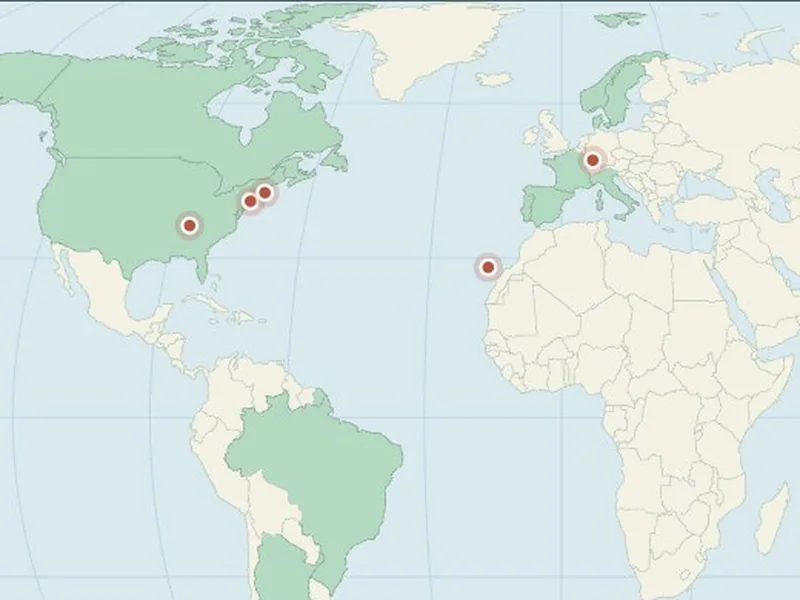
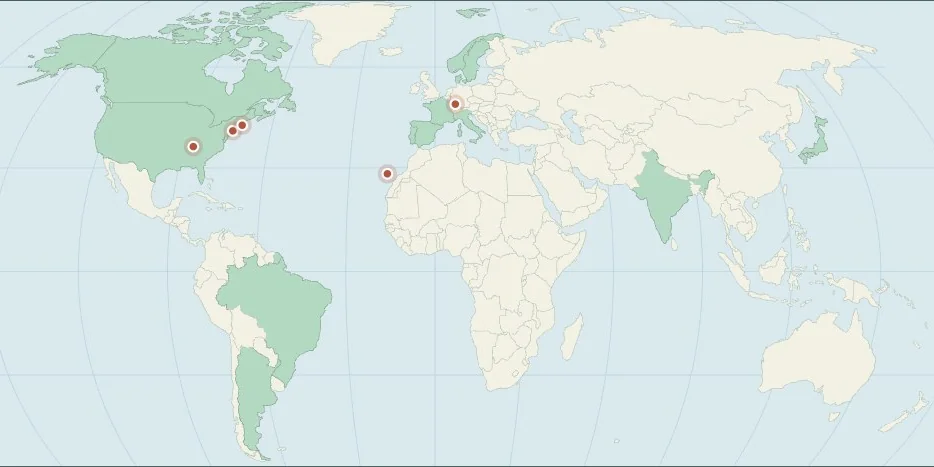
Home: the places as journals (her pick), every picture 2:1 landscape; Try switch now Extras only
Journals without numbers (her ask): cloth-bound journal in each place's colour, picture as a
plate, name on a cream label; 4 / 2 / 1 to a row, seven = 4 + 3 centred. Pictures share one
landscape shape (2:1): new crops of Willow Creek, Johto-Kanto and the Travels map; the
Library's wall fills the same plate. Dropped options and the site-preview pictures removed.
Extras (Off / On) stays on a small temporary Try switch. check_page updated (161 pass).

diff --git a/site/index.html b/site/index.html
@@ -218,110 +218,46 @@ svg.i{width:1em;height:1em;flex:none;fill:none;stroke:currentColor;stroke-width:
   .about-site .cr{display:block}
 }
 
-/* ================================================================ TRY SWITCH (temporary, 22 Nov: options while she chooses; remove this whole block,
-   the switch code in home.js and the unused img/home/ files once she has picked). Her ask: the page is a bit bland and the pictures don’t sit together. */
-.num{display:none}
+/* ================================================================ The places as journals (her pick, 22 Nov: she found the page a bit bland and the pictures odd together)
+   Each place is a cloth-bound journal in its own colour (spine, stitching, a page edge), its picture a plate with album corners, its name on a cream label
+   like the banner’s; no numbers on the journals (her ask). Every picture is the same landscape shape, 2:1 (her pick): the maps cropped to it (img/home/), the Library’s wall fills it.
+   Four to a row on a laptop, two below 1200px, one on phones; more places wrap, centred (seven = 4 + 3). */
 .card{--pcx:var(--pc)}
 :root[data-mode="dark"] .card{--pcx:color-mix(in srgb,var(--pc) 45%,#F3EBDA)}
-/* ---- Pictures */
 .pic.fill{background:var(--mat)}
 .pic.fill>img.bg{object-fit:cover}
-.pic.shot>img.bg{object-position:0 0}
-#page:not(.pics-now) .pic::after{content:"";position:absolute;inset:0;z-index:1;box-shadow:inset 0 0 0 1px rgba(0,0,0,.16);pointer-events:none}
-.wash{position:absolute;inset:0;z-index:1;background:var(--pc);mix-blend-mode:color;opacity:.36;transition:opacity .45s;pointer-events:none}
-.pics-tinted .pic img{filter:saturate(.85) contrast(.97)}
-.pics-tinted .snap{background:color-mix(in srgb,var(--pc) 12%,var(--mat))}
-.pics-tinted .snap:hover .wash{opacity:.12}
-
-/* ---- Extras: chapter numbers with a bar in the place’s colour, Open in the place’s colour, a drop capital on the Introduction */
-.extras-on .num{display:flex;align-items:center;gap:10px;font:italic 400 24px/1 var(--display);color:var(--pcx);margin:0 0 8px}
-.extras-on .num::after{content:"";width:34px;height:2px;background:currentColor;border-radius:2px}
-.extras-on.layout-now .card>.snap,.extras-on.layout-feature .card:not(:first-child)>.snap{order:-1}
-.extras-on .go{color:var(--pcx);border-bottom-color:color-mix(in srgb,var(--pcx) 40%,transparent)}
-.extras-on .intro p::first-letter{float:left;font:400 3.3em/.82 var(--display);margin:.06em .1em 0 0;color:var(--acc);font-style:normal}
-
-/* ---- Layout: Journals (each place a cloth-bound journal in its colour, the picture a tipped-in plate, the name on a cream label) */
-#page.layout-journals .cards{gap:48px 32px}
-#page.layout-journals .cards>.card{flex:0 0 calc((100% - 96px) / 4)}
-.layout-journals .card{--cl:var(--pc);position:relative;padding:20px 20px 24px 38px;color:#F3EBDA;text-align:center;border-radius:3px 9px 9px 3px;
+.pic::after{content:"";position:absolute;inset:0;z-index:1;box-shadow:inset 0 0 0 1px rgba(0,0,0,.16);pointer-events:none}
+#page.v2 .cards{gap:48px 32px}
+#page.v2 .cards>.card{flex:0 0 calc((100% - 96px) / 4)}
+.v2 .card{--cl:var(--pc);position:relative;padding:22px 16px 24px 34px;color:#F3EBDA;text-align:center;border-radius:3px 9px 9px 3px;
   background:repeating-linear-gradient(0deg,rgba(255,255,255,.03) 0 1px,transparent 1px 3px),repeating-linear-gradient(90deg,rgba(0,0,0,.05) 0 1px,transparent 1px 3px),
     linear-gradient(160deg,color-mix(in srgb,var(--cl) 82%,#fff),var(--cl) 55%,color-mix(in srgb,var(--cl) 72%,#000));
   box-shadow:5px 5px 0 -2px #EFE6D3,5px 5px 0 -1px rgba(0,0,0,.18),0 24px 34px -20px rgba(0,0,0,.65)}
-:root[data-mode="dark"] .layout-journals .card{--cl:color-mix(in srgb,var(--pc) 82%,#000);box-shadow:5px 5px 0 -2px #5A5045,5px 5px 0 -1px rgba(0,0,0,.4),0 24px 34px -20px rgba(0,0,0,.9)}
-.layout-journals .card::before{content:"";position:absolute;left:0;top:0;bottom:0;width:20px;border-radius:3px 0 0 3px;background:linear-gradient(90deg,rgba(0,0,0,.34),rgba(255,255,255,.1) 62%,rgba(0,0,0,.28))}
-.layout-journals .card::after{content:"";position:absolute;inset:8px 8px 8px 27px;border:1.5px dashed rgba(243,235,218,.32);border-radius:5px;pointer-events:none}
-.layout-journals .num{display:block;font:italic 400 20px/1 var(--display);color:var(--gold);margin:0 0 12px}
-.layout-journals .snap{padding:8px;background:#FBF6EC;margin:0;box-shadow:0 8px 16px -9px rgba(0,0,0,.7);z-index:1}
-:root[data-mode="dark"] .layout-journals .snap{background:#0D0A07}
-.layout-journals .snap .pic{inset:8px}
-.layout-journals .c{width:16px;height:16px}
-.layout-journals .c.tl,.layout-journals .c.tr{top:3px}.layout-journals .c.bl,.layout-journals .c.br{bottom:3px}.layout-journals .c.tl,.layout-journals .c.bl{left:3px}.layout-journals .c.tr,.layout-journals .c.br{right:3px}
-.layout-journals .txt h3{display:inline-block;position:relative;z-index:3;margin:-18px 0 14px;font-size:28px;line-height:1.05;padding:.2em .5em .22em;border-radius:3px;background:var(--label);color:var(--label-ink);
+:root[data-mode="dark"] .v2 .card{--cl:color-mix(in srgb,var(--pc) 82%,#000);box-shadow:5px 5px 0 -2px #5A5045,5px 5px 0 -1px rgba(0,0,0,.4),0 24px 34px -20px rgba(0,0,0,.9)}
+.v2 .card::before{content:"";position:absolute;left:0;top:0;bottom:0;width:20px;border-radius:3px 0 0 3px;background:linear-gradient(90deg,rgba(0,0,0,.34),rgba(255,255,255,.1) 62%,rgba(0,0,0,.28))}   /* the spine */
+.v2 .card::after{content:"";position:absolute;inset:8px 7px 8px 26px;border:1.5px dashed rgba(243,235,218,.32);border-radius:5px;pointer-events:none}   /* stitching, like the banner */
+.v2 .snap{aspect-ratio:2/1;padding:8px;background:#FBF6EC;margin:0;box-shadow:0 8px 16px -9px rgba(0,0,0,.7);z-index:1}
+:root[data-mode="dark"] .v2 .snap{background:#0D0A07}
+.v2 .snap .pic{inset:8px}
+.v2 .c{width:16px;height:16px}
+.v2 .c.tl,.v2 .c.tr{top:3px}.v2 .c.bl,.v2 .c.br{bottom:3px}.v2 .c.tl,.v2 .c.bl{left:3px}.v2 .c.tr,.v2 .c.br{right:3px}
+.v2 .card .txt h3{display:inline-block;position:relative;z-index:3;margin:-12px 0 14px;font-size:28px;line-height:1.05;padding:.2em .5em .22em;border-radius:3px;background:var(--label);color:var(--label-ink);
   outline:1px solid rgba(41,34,27,.3);outline-offset:-5px;box-shadow:0 8px 16px -9px rgba(0,0,0,.7)}
-:root[data-mode="dark"] .layout-journals .txt h3{outline-color:rgba(243,235,218,.22)}
-.v2.layout-journals .card p,.v2.layout-journals .card p.ph{color:rgba(243,235,218,.9);font-size:14.5px;text-align:left}
-.layout-journals .card .ph-tag{color:rgba(243,235,218,.85);border-color:rgba(243,235,218,.6)}
-.v2.layout-journals .go{align-self:center;color:#F3EBDA;border-bottom-color:rgba(243,235,218,.45);position:relative;z-index:3}
-.layout-journals .go:focus-visible,.layout-journals .snap:focus-visible{outline-color:#F3EBDA}
+:root[data-mode="dark"] .v2 .card .txt h3{outline-color:rgba(243,235,218,.22)}
+.v2 .card p,.v2 .card p.ph{color:rgba(243,235,218,.9);font-size:14.5px;text-align:left}
+.v2 .card .ph-tag{color:rgba(243,235,218,.85);border-color:rgba(243,235,218,.6)}
+.v2 .card .go{align-self:center;color:#F3EBDA;border-bottom-color:rgba(243,235,218,.45);position:relative;z-index:3}
+.v2 .card .go:focus-visible,.v2 .card .snap:focus-visible{outline-color:#F3EBDA}
+@media (max-width:1199px){ #page.v2 .cards>.card{flex-basis:calc((100% - 32px) / 2)} }
+@media (max-width:760px){ #page.v2 .cards>.card{flex-basis:100%;max-width:420px} .v2 .card .txt h3{font-size:30px} }
 
-/* ---- Layout: Feature (the first place large, picture beside its words; the rest in a row below) */
-@media (min-width:761px){
-  #page.layout-feature .cards>.card{flex:0 0 calc((100% - 80px) / 3)}
-  #page.layout-feature .cards>.card:first-child{flex-basis:100%;display:grid;grid-template-columns:minmax(0,1.45fr) minmax(0,1fr);grid-template-rows:1fr auto auto 1fr;column-gap:clamp(32px,4vw,56px);align-items:center;margin-bottom:8px}
-  .layout-feature .card:first-child>.snap{grid-column:1;grid-row:1/5;margin:0}
-  .layout-feature .card:first-child>.num{grid-column:2;grid-row:1;align-self:end}
-  .layout-feature .card:first-child>.txt{grid-column:2;grid-row:2}
-  .layout-feature .card:first-child>.go{grid-column:2;grid-row:3;align-self:start;justify-self:start}
-  .v2.layout-feature .card:first-child h3{font-size:clamp(46px,4.4vw,62px);margin-bottom:16px}
-  .layout-feature .card:first-child p{font-size:17.5px;line-height:1.62}
-}
-@media (min-width:761px) and (max-width:1000px){ #page.layout-feature .cards>.card:not(:first-child){flex-basis:calc((100% - 40px) / 2)} }
-
-/* ---- Layout: Side by side (each place a row, picture and words side by side, alternating left and right, a diamond between) */
-@media (min-width:761px){
-  #page.layout-rows .cards{flex-direction:column;gap:clamp(64px,7vw,96px)}
-  #page.layout-rows .cards>.card{flex:none;width:100%;display:grid;grid-template-columns:minmax(0,1.15fr) minmax(0,1fr);grid-template-rows:1fr auto auto 1fr;column-gap:clamp(32px,4.5vw,64px);align-items:center;position:relative}
-  .layout-rows .card>.snap{grid-column:1;grid-row:1/5;margin:0}
-  .layout-rows .card>.num{grid-column:2;grid-row:1;align-self:end}
-  .layout-rows .card>.txt{grid-column:2;grid-row:2}
-  .layout-rows .card>.go{grid-column:2;grid-row:3;align-self:start;justify-self:start}
-  #page.layout-rows .cards>.card:nth-child(even){grid-template-columns:minmax(0,1fr) minmax(0,1.15fr)}
-  .layout-rows .card:nth-child(even)>.snap{grid-column:2}
-  .layout-rows .card:nth-child(even)>.num,.layout-rows .card:nth-child(even)>.txt,.layout-rows .card:nth-child(even)>.go{grid-column:1}
-  .v2.layout-rows .card h3{font-size:clamp(42px,3.8vw,54px);margin-bottom:14px}
-  .layout-rows .card p{font-size:17px;max-width:460px}
-  .layout-rows .card+.card::before{content:"";position:absolute;left:50%;top:calc(clamp(64px,7vw,96px) / -2);width:7px;height:7px;background:var(--acc);transform:translate(-50%,-50%) rotate(45deg)}
-  .layout-rows .card+.card::after{content:"";position:absolute;left:50%;top:calc(clamp(64px,7vw,96px) / -2);width:220px;height:1px;transform:translate(-50%,-50%);
-    background:linear-gradient(90deg,transparent,color-mix(in srgb,var(--acc) 60%,transparent) 40%,transparent 46%,transparent 54%,color-mix(in srgb,var(--acc) 60%,transparent) 60%,transparent)}
-}
-
-/* ---- Layout: Index (a book’s contents page: numbered chapter lines, a small plate, a dotted leader to Open …) */
-#page.layout-index .cards{display:block;border-top:1px solid var(--line)}
-.layout-index .card{display:grid;grid-template-columns:56px 210px minmax(0,1fr) auto;grid-template-rows:auto 1fr;column-gap:30px;padding:28px 0;border-bottom:1px solid var(--line);align-items:start}
-.layout-index .num{display:block;grid-column:1;grid-row:1/3;font:italic 400 46px/1 var(--display);color:var(--pcx);text-align:right;margin:0}
-.layout-index .num::after{display:none}
-.layout-index .snap{grid-column:2;grid-row:1/3;margin:0;padding:7px}
-.layout-index .snap .pic{inset:7px}
-.layout-index .c{width:15px;height:15px}
-.layout-index .c.tl,.layout-index .c.tr{top:3px}.layout-index .c.bl,.layout-index .c.br{bottom:3px}.layout-index .c.tl,.layout-index .c.bl{left:3px}.layout-index .c.tr,.layout-index .c.br{right:3px}
-.layout-index .txt{grid-column:3;grid-row:1/3}
-.v2.layout-index .card h3{display:flex;align-items:baseline;gap:14px;font-size:40px;margin:0 0 10px}
-.layout-index .card h3::after{content:"";flex:1;min-width:30px;border-bottom:2px dotted color-mix(in srgb,var(--mute) 65%,transparent);transform:translateY(-7px)}
-.layout-index .card p{max-width:640px;margin:0}
-.layout-index .go{grid-column:4;grid-row:1;margin-top:16px;white-space:nowrap;justify-self:end}
-@media (max-width:760px){
-  .layout-index .card{grid-template-columns:36px minmax(0,1fr);grid-template-rows:none;column-gap:14px;padding:24px 0}
-  .layout-index .num{grid-row:1;font-size:34px}
-  .layout-index .txt{display:contents}
-  .v2.layout-index .card h3{grid-column:2;grid-row:1;font-size:34px;margin:0}
-  .layout-index .snap{grid-column:2;grid-row:2;margin:14px 0 14px}
-  .layout-index .card p{grid-column:2;grid-row:3;margin-bottom:12px}
-  .layout-index .go{grid-column:2;grid-row:4;margin:0;justify-self:start}
-}
-
-/* growth and smaller screens for Journals */
-@media (max-width:1199px){ #page.layout-journals .cards>.card{flex-basis:calc((100% - 32px) / 2)} }
-@media (max-width:760px){ #page.layout-journals .cards>.card{flex-basis:100%;max-width:420px} .layout-journals .txt h3{font-size:30px} }
+/* ================================================================ TRY SWITCH (temporary, 22 Nov: only Extras is left for her to compare; remove this block
+   and the switch code in home.js once she has picked). Extras On: a drop capital on the Introduction, a short bar in each place’s colour above its name
+   (on the cream label), and “Open …” in the place’s colour (on a small cream tab, so the colour shows against the cloth). */
+.extras-on .intro p::first-letter{float:left;font:400 3.3em/.82 var(--display);margin:.06em .1em 0 0;color:var(--acc);font-style:normal}
+.extras-on .card .txt h3::before{content:"";display:block;width:40px;height:3px;border-radius:2px;background:var(--pcx);margin:.12em auto .16em}
+.v2.extras-on .card .go{background:var(--label);color:var(--pcx);border:0;padding:7px 14px;border-radius:99px;box-shadow:0 6px 12px -8px rgba(0,0,0,.6)}
+.v2.extras-on .card .go:hover{text-decoration:underline;text-underline-offset:3px}
 
 /* the switch itself */
 .trybox{position:fixed;z-index:70;right:calc(12px + env(safe-area-inset-right,0px));bottom:calc(12px + env(safe-area-inset-bottom,0px));max-width:min(600px,calc(100vw - 24px));

diff --git a/site/home.js b/site/home.js
@@ -7,13 +7,13 @@
   // really aren't there (the page opened as a file, or the phone copy as a Claude artifact: claude.ai, claudeusercontent.com or a sandboxed frame) does a link say so instead (round 5 review).
   var NO_APPS=!/^https?:$/.test(location.protocol) || /(^|\.)(claude\.ai|claudeusercontent\.com)$/.test(location.hostname);
   var PLACES=[
-    {name:"Sim World", url:"/sim-world/", frame:"img/home/frame-sim-world.webp", preview:"img/home/preview-sim-world.webp", title:"My Sim World", pc:"#4E3182", pic:{img:"img/maps/sims-willow-creek.webp", map:true, alt:"Map of Willow Creek"},
+    {name:"Sim World", url:"/sim-world/", frame:"img/home/frame-sim-world.webp", title:"My Sim World", pc:"#4E3182", pic:{img:"img/maps/sims-willow-creek.webp", map:true, alt:"Map of Willow Creek"},
      about:"Every world in the game, rebuilt one lot at a time. Wander the neighbourhoods, look around the homes and venues, and meet the households who live in them."},
-    {name:"Library", url:"/library/", preview:"img/home/preview-library.webp", title:"My Library", pc:"#6E4524", pic:{wall:true, alt:"Covers of books from my shelves"},
+    {name:"Library", url:"/library/", title:"My Library", pc:"#6E4524", pic:{wall:true, alt:"Covers of books from my shelves"},
      about:"Every book on the shelves at home, and everything you read."},
-    {name:"Pokédex", url:"/pokedex/", frame:"img/home/frame-pokedex.webp", preview:"img/home/preview-pokedex.webp", title:"My Pokédex", pc:"#7E2530", pic:{img:"img/maps/region-johto-kanto.webp", map:true, alt:"Map of Johto and Kanto"},
+    {name:"Pokédex", url:"/pokedex/", frame:"img/home/frame-pokedex.webp", title:"My Pokédex", pc:"#7E2530", pic:{img:"img/maps/region-johto-kanto.webp", map:true, alt:"Map of Johto and Kanto"},
      about:null},
-    {name:"Travels", url:"/travels/", frame:"img/home/frame-travels.webp", preview:"img/home/preview-travels.webp", title:"My Travels", pc:"#1D7A69", pic:{img:"img/maps/travels-map.webp", map:true, alt:"Map of the places on my trips"},
+    {name:"Travels", url:"/travels/", frame:"img/home/frame-travels.webp", title:"My Travels", pc:"#1D7A69", pic:{img:"img/maps/travels-map.webp", map:true, alt:"Map of the places on my trips"},
      about:null}   // added 21 Nov (her yes); the picture is Travels' own map in its chosen Old Atlas look
   ];
   // Only for "More places": stand-ins to show how it grows. Not real places.
@@ -29,26 +29,19 @@
   function ico(n){ return '<svg class="i" viewBox="0 0 24 24" aria-hidden="true">'+ICON[n]+'</svg>'; }
   function esc(s){ return String(s).replace(/[&<>"]/g,function(c){return {"&":"&amp;","<":"&lt;",">":"&gt;",'"':"&quot;"}[c];}); }
   var WALL=''; for(var n=0;n<72;n++) WALL+='<img src="img/wall/'+String((n*7)%40).padStart(2,'0')+'.webp" alt="" loading="lazy" decoding="async">';
-  // TRY SWITCH (temporary, 22 Nov, while she chooses; remove with the .trybox CSS once she has picked):
-  // pictures: now | frame (every picture cropped to the same 4:3 shape) | previews (each app's own home page) | tinted (same frame + a wash of the place's colour)
-  // layout: now | journals | feature | rows | index; extras: off | on (place colours, chapter numbers, a drop capital)
-  var TRY={
-    pics:[['now','As now'],['frame','Same frame'],['previews','Site previews'],['tinted','Tinted']],
-    layout:[['now','As now'],['journals','Journals'],['feature','Feature'],['rows','Side by side'],['index','Index']],
-    extras:[['off','Off'],['on','On']]
-  };
-  var TRYNAMES={pics:'Pictures',layout:'Layout',extras:'Extras'};
-  var tryState={pics:'now',layout:'now',extras:'off'}, tryHidden=false;
-  try { var saved=JSON.parse(localStorage.getItem('jj-home-try')||'{}'); Object.keys(TRY).forEach(function(k){ if(TRY[k].some(function(o){return o[0]===saved[k];})) tryState[k]=saved[k]; }); tryHidden=!!saved.hidden; } catch(e){}
-  function saveTry(){ try { localStorage.setItem('jj-home-try', JSON.stringify({pics:tryState.pics,layout:tryState.layout,extras:tryState.extras,hidden:tryHidden})); } catch(e){} }
-  var ROMAN=['I','II','III','IV','V','VI','VII','VIII','IX','X'];
+  // TRY SWITCH (temporary, 22 Nov: only Extras is left to choose; remove with the .trybox CSS once she has picked)
+  // extras: off | on (a drop capital on the Introduction, a bar in each place's colour above its name, "Open …" in the place's colour)
+  var TRY={extras:[['off','Off'],['on','On']]};
+  var TRYNAMES={extras:'Extras'};
+  var tryState={extras:'off'}, tryHidden=false;
+  try { var saved=JSON.parse(localStorage.getItem('jj-home-try')||'{}'); if(saved.extras==='on') tryState.extras='on'; tryHidden=!!saved.hidden; } catch(e){}
+  function saveTry(){ try { localStorage.setItem('jj-home-try', JSON.stringify({extras:tryState.extras,hidden:tryHidden})); } catch(e){} }
+  // every picture the same landscape plate, 2:1 (her pick, 22 Nov): maps cropped to that shape (img/home/frame-*), the Library's wall fills it
   function pic(p){
     if(p.demo||!p.pic) return '<span class="pic blank" style="--pc:'+p.pc+'"></span>';   // no picture yet (a new site from tools/new_site.py): the striped stand-in
-    var q=p.pic, mode=tryState.pics, wash=mode==='tinted'?'<span class="wash"></span>':'';
-    if(mode==='previews' && p.preview) return '<span class="pic fill shot"><img class="bg" src="'+p.preview+'" alt="The home page of '+esc(p.title)+'" loading="lazy" decoding="async"></span>';
-    if(q.wall) return '<span class="pic" role="img" aria-label="'+esc(q.alt)+'"><span class="wall">'+WALL+'</span>'+wash+'</span>';
-    if((mode==='frame'||mode==='tinted') && p.frame) return '<span class="pic fill"><img class="bg" src="'+p.frame+'" alt="'+esc(q.alt||'')+'" loading="lazy" decoding="async">'+wash+'</span>';
-    return '<span class="pic'+(q.map?' map':'')+'"><img class="bg" src="'+q.img+'" alt="'+esc(q.alt||'')+'" loading="lazy" decoding="async"></span>';
+    var q=p.pic;
+    if(q.wall) return '<span class="pic" role="img" aria-label="'+esc(q.alt)+'"><span class="wall">'+WALL+'</span></span>';
+    return '<span class="pic fill"><img class="bg" src="'+(p.frame||q.img)+'" alt="'+esc(q.alt||'')+'" loading="lazy" decoding="async"></span>';
   }
   function aboutPlace(p){ return p.about ? '<p>'+esc(p.about)+'</p>' : '<p class="ph">A line or two about '+(p.demo?'it':esc(p.name))+', in your own words.<span class="ph-tag">Placeholder</span></p>'; }
   var CORNERS='<span class="c tl"></span><span class="c tr"></span><span class="c bl"></span><span class="c br"></span>';
@@ -57,7 +50,7 @@
   // state: more places (to show how it grows), light/dark (light unless the button is pressed). Her picks: the Improved version, with About this site.
   var more=0, root=document.documentElement, userMode=root.getAttribute('data-mode')==='dark'?'dark':'light';   // more: how many stand-in places to add (0–3); the mode was set by the family's mode.js
   location.hash.slice(1).split('--').forEach(function(w){ if(w==='more') more=3; var mm=/^more([123])$/.exec(w); if(mm) more=+mm[1]; if(w==='dark'||w==='light') userMode=w;
-    var tm=/^(pics|layout|extras)-(\w+)$/.exec(w); if(tm && TRY[tm[1]].some(function(o){return o[0]===tm[2];})) tryState[tm[1]]=tm[2];   // e.g. #layout-index--pics-frame (for checking; not saved)
+    if(w==='extras-on'||w==='extras-off') tryState.extras=w.slice(7);   // #extras-on in the address (for checking; not saved)
     });
 
   // About this site: two quiet lines (her pick, 20 Nov: option 2, each credit starting with a capital)
@@ -81,10 +74,9 @@
     h+='<section class="intro" aria-labelledby="intro"><div>'+h2('Introduction','intro')+INTRO+'</div></section>'   // Introduction to the site, words only (her picks, 20 Nov)
       +'<div class="sec">'+h2('Contents','contents')+'</div>'
       +'<div class="cards">';
-    list.forEach(function(p,i){
+    list.forEach(function(p){
       var open=p.demo?'it':p.title;   // "Open My Sim World" (her ask, 20 Nov: the link should say My like the heading)
       h+='<article class="card" style="--pc:'+p.pc+'">'
-        +'<span class="num" aria-hidden="true">'+(ROMAN[i]||i+1)+'</span>'   // chapter numbers: shown only by some Try options
         +'<a class="snap" href="'+esc(p.url||'#')+'" data-open="'+esc(p.demo?'':p.name)+'" aria-label="Open '+esc(open)+'">'+CORNERS+pic(p)+'</a>'
         +'<div class="txt"><h3>'+esc(p.title)+'</h3>'+aboutPlace(p)+'</div>'
         +'<a class="go" href="'+esc(p.url||'#')+'" data-open="'+esc(p.demo?'':p.name)+'">Open '+esc(open)+' '+ico('arrow-right')+'</a></article>';
@@ -93,7 +85,7 @@
       +'<div class="end" aria-hidden="true"><i></i><b></b><i></i></div>'
       +'<footer class="foot gut"><div class="wrap"><b>Jemma’s Journals</b>'+aboutSite()
       +'<div class="foot-links"><a class="totop" href="#top" data-jj-top>'+ico('arrow-up')+'Back to top</a>'+MODETEXT+'</div>'+'</div></footer>';
-    var page=document.getElementById('page'); page.className='v2 pics-'+tryState.pics+' layout-'+tryState.layout+' extras-'+tryState.extras+(firstRender?' i-enter':''); firstRender=false; page.innerHTML=h;
+    var page=document.getElementById('page'); page.className='v2 extras-'+tryState.extras+(firstRender?' i-enter':''); firstRender=false; page.innerHTML=h;
   }
   render();
 

diff --git a/tests/check_page.js b/tests/check_page.js
@@ -96,10 +96,13 @@ function check(ok, what) { if (ok) passes++; else { failures++; console.log('  F
       check(r.openWords === 'Open My Sim World|Open My Library|Open My Pokédex|Open My Travels', tag + 'links say Open My … (' + r.openWords + ')');
       check(r.creditLines === 1 && r.creditCount === 6, tag + 'the credits are shown once, in the footer (' + r.creditLines + ' lines, ' + r.creditCount + ' credits)');
       check(r.sheets.length >= 2 && r.sheets.every(([, n]) => n > 0), tag + 'every stylesheet loaded with its rules, family.css too (' + r.sheets.map(x => x.join(' ')).join(', ') + ')');
-      if (size.viewport.width >= 1280) {   // four places (Travels added 21 Nov): 2 × 2 at full size
-        const four = await page.evaluate(() => { const r = [...document.querySelectorAll('.card')].map(c => c.getBoundingClientRect()); return { first: r.filter(x => Math.round(x.top) === Math.round(r[0].top)).length, rows: new Set(r.map(x => Math.round(x.top))).size, wide: r[0].width > 300 }; });
-        check(four.first === 2 && four.rows === 2 && four.wide, tag + 'four places sit as 2 × 2 at full size (first row ' + four.first + ')');
-      }
+      // the places as journals (her pick, 22 Nov): four in a row on a laptop, two below 1200px, one on phones; every picture the same landscape shape
+      const four = await page.evaluate(() => { const r = [...document.querySelectorAll('.card')].map(c => c.getBoundingClientRect()); return { first: r.filter(x => Math.round(x.top) === Math.round(r[0].top)).length, rows: new Set(r.map(x => Math.round(x.top))).size }; });
+      const perRow = size.viewport.width >= 1200 ? 4 : size.viewport.width > 760 ? 2 : 1;
+      check(four.first === perRow && four.rows === 4 / perRow, tag + 'four journals sit ' + perRow + ' to a row (first row ' + four.first + ', ' + four.rows + ' rows)');
+      const shapes = await page.evaluate(() => [...document.querySelectorAll('.card .snap')].map(s => { const b = s.getBoundingClientRect(); return Math.round(b.width / b.height * 100) / 100; }));
+      check(shapes.every(x => Math.abs(x - 2) < 0.03), tag + 'every picture is the same landscape shape, 2:1 (' + shapes.join(', ') + ')');
+      check(await page.evaluate(() => !document.querySelector('.card .num')), tag + 'no numbers on the journals (her ask, 22 Nov)');
       check(r.corners === 4, tag + 'the cover has its four gold corners (Improved)');
       check(r.entrance, tag + 'the gentle entrance is on when the page opens (her pick, 20 Nov)');
       check(r.stitched === 'dashed', tag + 'the cover has its stitching (her pick, 20 Nov)');
@@ -119,20 +122,24 @@ function check(ok, what) { if (ok) passes++; else { failures++; console.log('  F
       const grow = async n => { await page.goto(HOST + '#more' + n, { waitUntil: 'networkidle' }); await page.reload({ waitUntil: 'networkidle' }); await page.evaluate(() => Promise.all(document.getAnimations().map(a => a.finished))); };
       // TEMPORARY (22 Nov): a Try switch is on the page while she chooses the home options; when it goes, put back the check
       // "no Try switch left on the page": check(await page.evaluate(() => !document.querySelector('.trybox, .sw, [aria-label="Try"], #more')), …)
-      check(await page.evaluate(() => { const p = document.getElementById('page').classList; return p.contains('pics-now') && p.contains('layout-now') && p.contains('extras-off'); }), tag + 'the temporary Try switch opens on As now');
+      check(await page.evaluate(() => document.getElementById('page').classList.contains('extras-off') && document.querySelectorAll('.trybox [data-try]').length === 2), tag + 'the temporary Try switch (Extras only) opens on Off');
       await grow(1);
       const grown = await page.evaluate(() => ({ cards: document.querySelectorAll('.card').length, sideways: document.documentElement.scrollWidth - document.documentElement.clientWidth }));
       check(grown.cards === 5 && grown.sideways <= 0, tag + '"More places" adds a fifth without sideways scrolling');
       if (size.viewport.width >= 1280) {
-        const five = await page.evaluate(() => { const ys = [...document.querySelectorAll('.card')].map(c => Math.round(c.getBoundingClientRect().top)); const first = ys.filter(y => y === ys[0]).length; const r = [...document.querySelectorAll('.card')].slice(3).map(c => c.getBoundingClientRect()); const mid = (r[0].left + r[r.length-1].right) / 2; return { first, centred: Math.abs(mid - innerWidth / 2) < 40 }; });
-        check(five.first === 3 && five.centred, tag + 'five places sit as 3 + 2, centred');
+        const five = await page.evaluate(() => { const ys = [...document.querySelectorAll('.card')].map(c => Math.round(c.getBoundingClientRect().top)); const first = ys.filter(y => y === ys[0]).length; const r = [...document.querySelectorAll('.card')].slice(4).map(c => c.getBoundingClientRect()); const mid = (r[0].left + r[r.length-1].right) / 2; return { first, centred: Math.abs(mid - innerWidth / 2) < 40 }; });
+        check(five.first === 4 && five.centred, tag + 'five places sit as 4 + 1, centred');
         await grow(2);
         const six = await page.evaluate(() => { const ys = [...document.querySelectorAll('.card')].map(c => Math.round(c.getBoundingClientRect().top)); return { first: ys.filter(y => y === ys[0]).length, rows: new Set(ys).size }; });
-        check(six.first === 3 && six.rows === 2, tag + 'six places sit as 3 + 3');
+        check(six.first === 4 && six.rows === 2, tag + 'six places sit as 4 + 2');
       }
       // the most stand-ins (#more3) must still work, and Back to top must move focus to the top (review, 21 Nov)
       await grow(3);
       check(await page.evaluate(() => document.querySelectorAll('.card').length) === 7, tag + '#more3 shows seven places');
+      if (size.viewport.width >= 1280) {
+        const seven = await page.evaluate(() => { const c = [...document.querySelectorAll('.card')].map(x => x.getBoundingClientRect()); const ys = c.map(x => Math.round(x.top)); const r = c.slice(4); return { first: ys.filter(y => y === ys[0]).length, centred: Math.abs((r[0].left + r[r.length-1].right) / 2 - innerWidth / 2) < 40 }; });
+        check(seven.first === 4 && seven.centred, tag + 'seven places sit as 4 + 3, centred');
+      }
       await page.click('[data-jj-top]');
       check(await page.evaluate(() => document.activeElement && document.activeElement.id === 'top'), tag + 'Back to top moves focus to the top');
       check(errors.length === 0, tag + 'no errors in the browser (' + errors.slice(0, 2).join(' / ') + ')');

diff --git a/CLAUDE.md b/CLAUDE.md
@@ -50,13 +50,13 @@ She felt the three apps were too same-y (same sidebar, name style, hero, cards; 
 - **Built into the real apps 21 Nov** (her go-ahead): Library c88a065 (laptop; its own session builds the phone mode), Sim World 978bcd6 + review fixes 926993a, Pokédex 77e18f2 (with a Menu drawer under 900px) + review fixes 1d12ed6.
 - 21 Nov: full critical review of all five sites (incl. Travels) and the family: `research/reviews/`; summary and her open questions: `for-jemma/review-21-nov.md`.
 
-## Home options (22 Nov, open: a temporary Try switch)
+## Home: journals and landscape pictures (22 Nov, her picks)
 
-She felt home was “a bit bland, needs more” and the four pictures didn’t sit together. **A Try switch is on the page now, bottom right, only while she chooses: remove it afterwards** (the TRY SWITCH block at the end of index.html’s style, the switch code in home.js, the unused `site/img/home/` files, and put back the “no Try switch” check in tests/check_page.js). It opens on As now; her picks are kept in localStorage `jj-home-try`; for checking, the address takes `#pics-…--layout-…--extras-on`.
-- **Pictures:** As now · Same frame (each picture cropped to the same 4:3 shape and filling it: Willow Creek, Johto’s cities and mountains, the Atlantic with her Travels pins; Library’s wall) · Site previews (each app’s own home page, screenshot 22 Nov at 1600 light, `img/home/preview-*.webp`; they show the apps’ figures, small) · Tinted (Same frame with a gentle wash of each place’s colour, which lifts on hover).
-- **Layout:** As now · Journals (each place a cloth-bound journal in its colour with spine and stitching, the picture a plate, the name on a cream label, volume numeral) · Feature (first place large beside its words, the rest three to a row) · Side by side (one row each, picture and words alternating left/right, a gold diamond between) · Index (a contents page: numeral in the place’s colour, small plate, dotted leader to Open …).
-- **Extras:** Off · On (chapter numeral with a bar in the place’s colour, Open … in the place’s colour, a drop capital on the Introduction).
-- Record screenshots: `for-jemma/concepts/home-options/` (1600 and 390; `grow7-*` = #more3).
+She felt home was “a bit bland, needs more” and the four pictures didn’t sit together. From a Try switch of pictures (As now / Same frame / Site previews / Tinted) and layouts (As now / Journals / Feature / Side by side / Index) **she picked Journals, with no numbers on the journals, and every picture the same landscape shape** (22 Nov). Built and the other options removed.
+- **Journals:** each place is a cloth-bound journal in its colour (spine, stitching, a page edge), its picture a plate with album corners, its name on a cream label overlapping the plate like the banner’s, its line and “Open …” in cream. Four to a row on a laptop, two below 1200px, one on phones; more places wrap centred (seven = 4 + 3).
+- **Pictures:** one shared shape, 2:1 (close to the Travels and Pokédex maps, ~2.3:1). `site/img/home/frame-*.webp`: Willow Creek cropped to its lots, the whole Johto–Kanto painting, the Travels map trimmed at the edges; the Library’s wall of covers fills the same plate.
+- **Still open: Extras.** A small temporary Try switch (bottom right, Extras only: Off / On; kept in localStorage `jj-home-try`, `#extras-on` in the address for checking). On adds a drop capital on the Introduction, a short bar in each place’s colour above its name (on the label), and “Open …” in the place’s colour (on a small cream tab). **Remove the switch once she picks** (the TRY SWITCH block in index.html’s style, the switch code in home.js) and put back the “no Try switch” check in tests/check_page.js.
+- Screens: `for-jemma/concepts/home-options/` (the round of options) and `home-options/chosen/` (as built).
 
 ## Where things are
 
